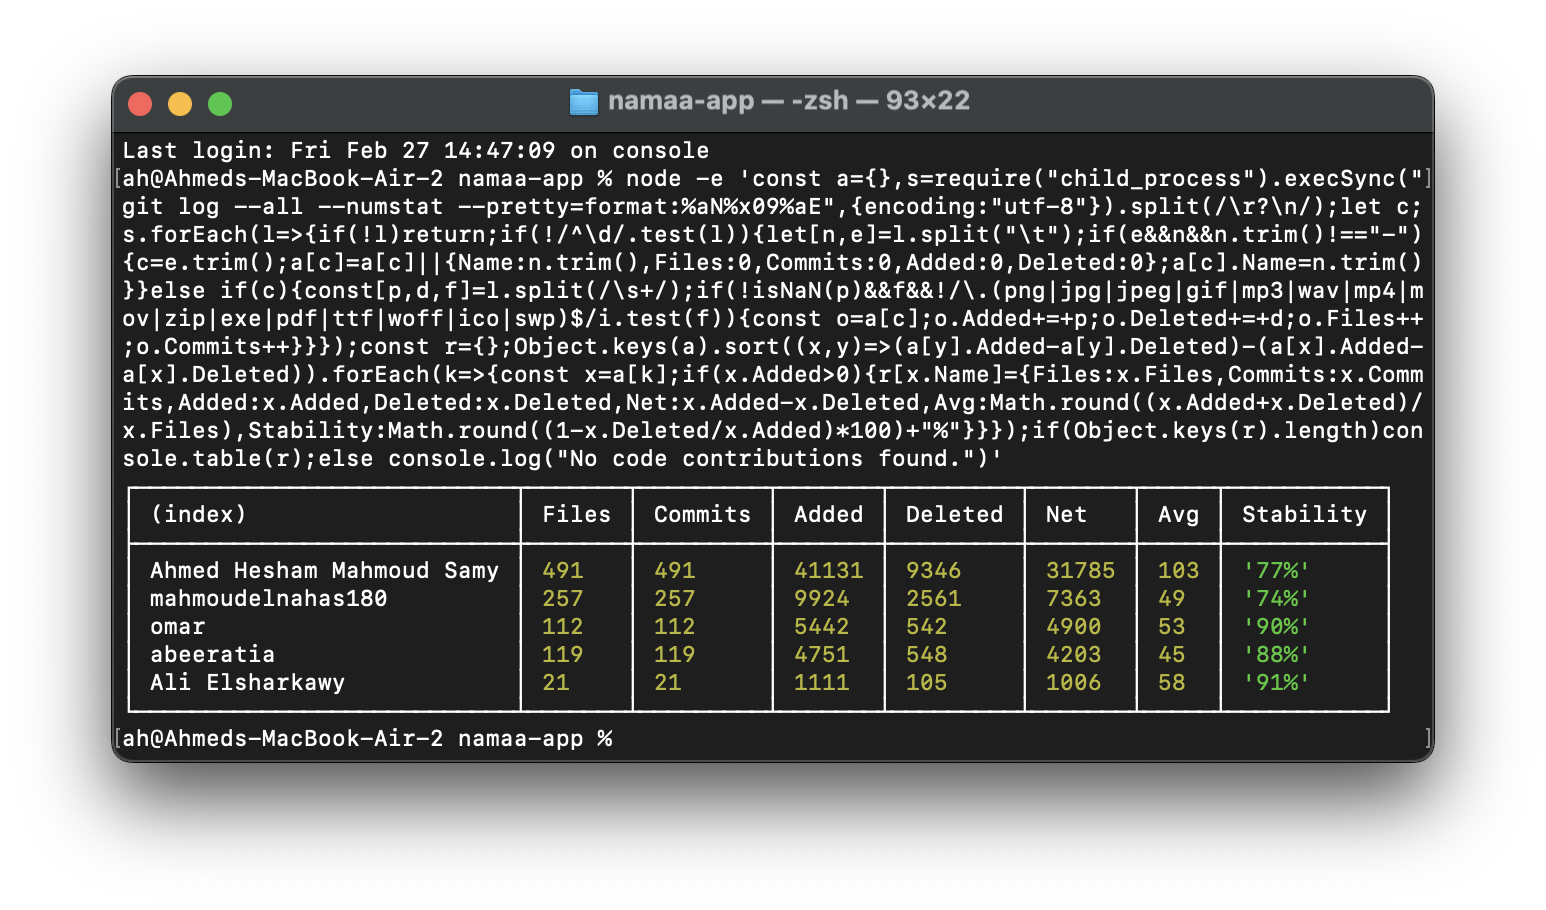
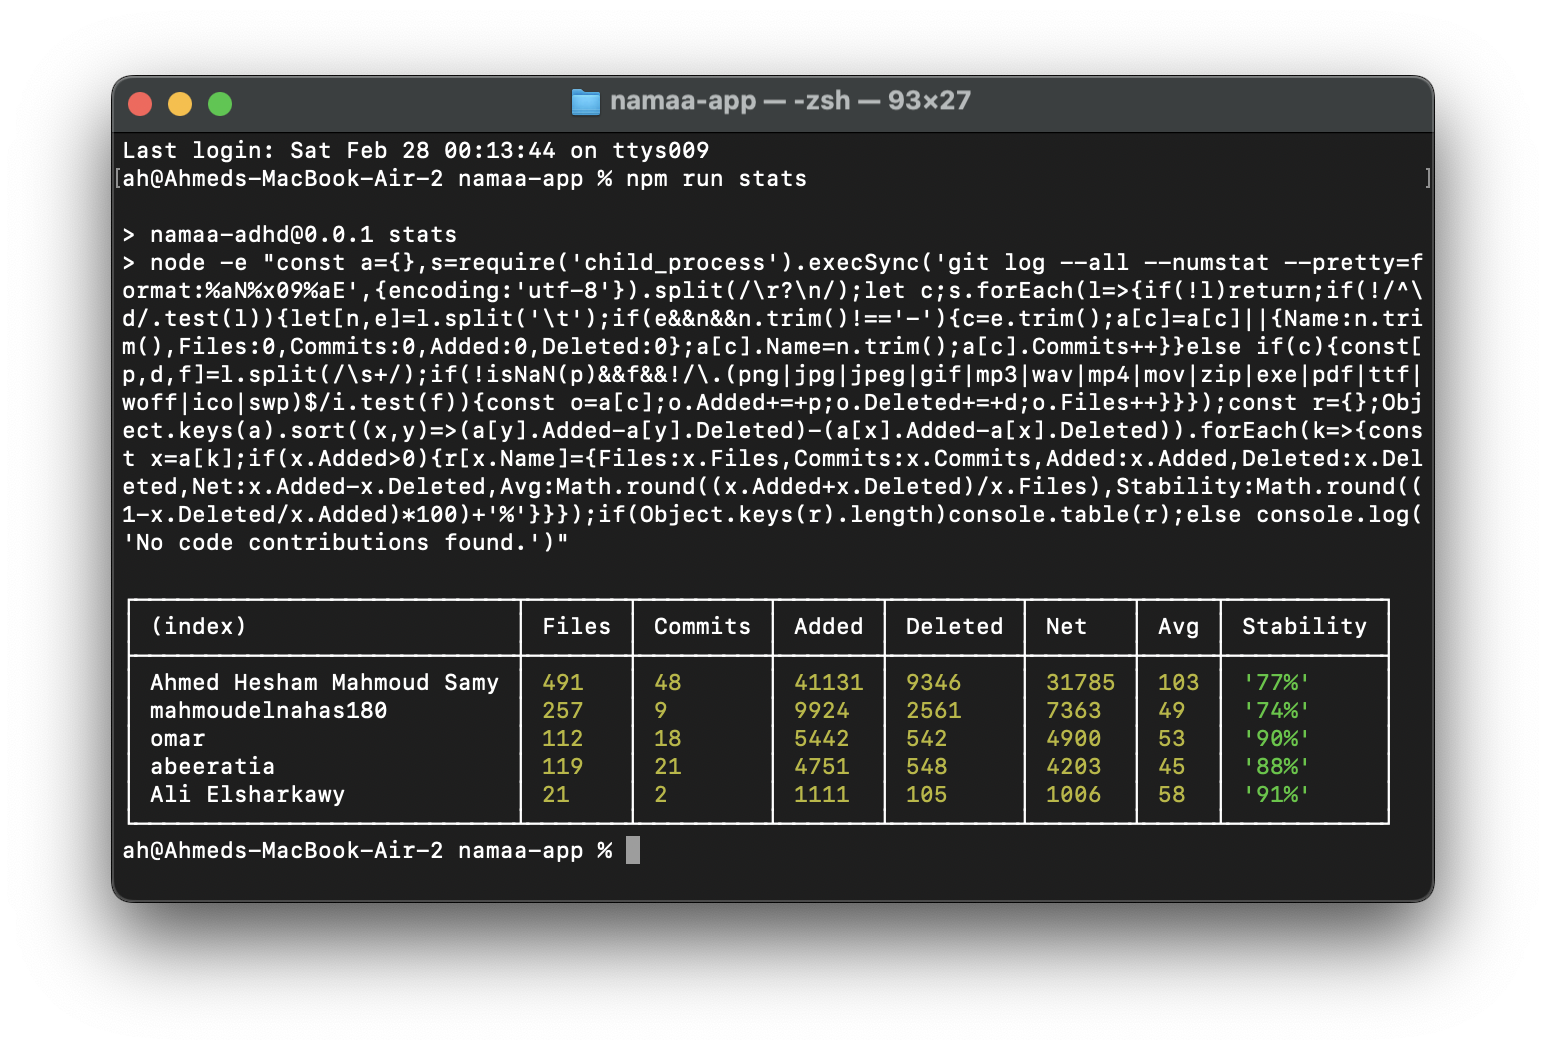
fix: Correctly count commits per author by incrementing once per commit instead of per file change.

Changed region(s): [[0.0621, 0.0615, 0.9314, 0.9231]]

diff --git a/git-stats.js b/git-stats.js
@@ -21,10 +21,10 @@ lines.forEach(line => {
     if (!/^\d/.test(line)) {
         // إذا كان السطر لا يبدأ برقم، إذن هو سطر [الاسم - التاب - الإيميل]
         let [name, email] = line.split('\t');
-        
+
         if (email && name && name.trim() !== '-') {
             currentAuthorEmail = email.trim();
-            
+
             // إنشاء كائن للمبرمج إذا لم يكن موجوداً (التجميع يتم بالإيميل)
             if (!stats[currentAuthorEmail]) {
                 stats[currentAuthorEmail] = {
@@ -37,22 +37,24 @@ lines.forEach(line => {
             }
             // تحديث الاسم لضمان استخدام أحدث اسم مستخدم لهذا الإيميل
             stats[currentAuthorEmail].Name = name.trim();
+
+            // ✅ يتم زيادة الكوميت هنا (مرة واحدة لكل عملية)
+            stats[currentAuthorEmail].Commits += 1;
         }
     } else if (currentAuthorEmail) {
         /**
          * السطر يبدأ برقم، إذن هو سطر إحصائيات ملف: [إضافة - حذف - مسار الملف]
          */
         const [added, deleted, filePath] = line.split(/\s+/);
-        
+
         // استبعاد الملفات غير البرمجية (صور، صوت، إلخ) باستخدام Regex
         const isBinary = /\.(png|jpg|jpeg|gif|mp3|wav|mp4|mov|zip|exe|pdf|ttf|woff|ico|swp)$/i.test(filePath);
-        
+
         if (!isNaN(added) && filePath && !isBinary) {
             const author = stats[currentAuthorEmail];
             author.Added += parseInt(added);
             author.Deleted += parseInt(deleted);
             author.Files += 1; // زيادة عدد الملفات الفريدة
-            author.Commits += 1; // زيادة عدد المساهمات
         }
     }
 });

diff --git a/README.md b/README.md
@@ -39,7 +39,7 @@ node git-stats.js
 Run this in **any** other Git repository on your machine to generate an immediate report without copying any files:
 
 ```bash
-node -e 'const a={},s=require("child_process").execSync("git log --all --numstat --pretty=format:%aN%x09%aE",{encoding:"utf-8"}).split(/\r?\n/);let c;s.forEach(l=>{if(!l)return;if(!/^\d/.test(l)){let[n,e]=l.split("\t");if(e&&n&&n.trim()!=="-"){c=e.trim();a[c]=a[c]||{Name:n.trim(),Files:0,Commits:0,Added:0,Deleted:0};a[c].Name=n.trim()}}else if(c){const[p,d,f]=l.split(/\s+/);if(!isNaN(p)&&f&&!/\.(png|jpg|jpeg|gif|mp3|wav|mp4|mov|zip|exe|pdf|ttf|woff|ico|swp)$/i.test(f)){const o=a[c];o.Added+=+p;o.Deleted+=+d;o.Files++;o.Commits++}}});const r={};Object.keys(a).sort((x,y)=>(a[y].Added-a[y].Deleted)-(a[x].Added-a[x].Deleted)).forEach(k=>{const x=a[k];if(x.Added>0){r[x.Name]={Files:x.Files,Commits:x.Commits,Added:x.Added,Deleted:x.Deleted,Net:x.Added-x.Deleted,Avg:Math.round((x.Added+x.Deleted)/x.Files),Stability:Math.round((1-x.Deleted/x.Added)*100)+"%"}}});if(Object.keys(r).length)console.table(r);else console.log("No code contributions found.")'
+node -e 'const a={},s=require("child_process").execSync("git log --all --numstat --pretty=format:%aN%x09%aE",{encoding:"utf-8"}).split(/\r?\n/);let c;s.forEach(l=>{if(!l)return;if(!/^\d/.test(l)){let[n,e]=l.split("\t");if(e&&n&&n.trim()!=="-"){c=e.trim();a[c]=a[c]||{Name:n.trim(),Files:0,Commits:0,Added:0,Deleted:0};a[c].Name=n.trim();a[c].Commits++}}else if(c){const[p,d,f]=l.split(/\s+/);if(!isNaN(p)&&f&&!/\.(png|jpg|jpeg|gif|mp3|wav|mp4|mov|zip|exe|pdf|ttf|woff|ico|swp)$/i.test(f)){const o=a[c];o.Added+=+p;o.Deleted+=+d;o.Files++}}});const r={};Object.keys(a).sort((x,y)=>(a[y].Added-a[y].Deleted)-(a[x].Added-a[x].Deleted)).forEach(k=>{const x=a[k];if(x.Added>0){r[x.Name]={Files:x.Files,Commits:x.Commits,Added:x.Added,Deleted:x.Deleted,Net:x.Added-x.Deleted,Avg:Math.round((x.Added+x.Deleted)/x.Files),Stability:Math.round((1-x.Deleted/x.Added)*100)+"%"}}});if(Object.keys(r).length)console.table(r);else console.log("No code contributions found.")'
 
 ```
 
@@ -49,7 +49,7 @@ Add this script to your `package.json` to make it accessible to everyone on your
 
 ```json
 "scripts": {
-  "stats": "node -e \"const a={},s=require('child_process').execSync('git log --all --numstat --pretty=format:%aN%x09%aE',{encoding:'utf-8'}).split(/\\r?\\n/);let c;s.forEach(l=>{if(!l)return;if(!/^\\d/.test(l)){let[n,e]=l.split('\\t');if(e&&n&&n.trim()!=='-'){c=e.trim();a[c]=a[c]||{Name:n.trim(),Files:0,Commits:0,Added:0,Deleted:0};a[c].Name=n.trim()}}else if(c){const[p,d,f]=l.split(/\\s+/);if(!isNaN(p)&&f&&!/\\.(png|jpg|jpeg|gif|mp3|wav|mp4|mov|zip|exe|pdf|ttf|woff|ico|swp)$/i.test(f)){const o=a[c];o.Added+=+p;o.Deleted+=+d;o.Files++;o.Commits++}}});const r={};Object.keys(a).sort((x,y)=>(a[y].Added-a[y].Deleted)-(a[x].Added-a[x].Deleted)).forEach(k=>{const x=a[k];if(x.Added>0){r[x.Name]={Files:x.Files,Commits:x.Commits,Added:x.Added,Deleted:x.Deleted,Net:x.Added-x.Deleted,Avg:Math.round((x.Added+x.Deleted)/x.Files),Stability:Math.round((1-x.Deleted/x.Added)*100)+'%'}}});if(Object.keys(r).length)console.table(r);else console.log('No code contributions found.')\""
+  "stats": "node -e \"const a={},s=require('child_process').execSync('git log --all --numstat --pretty=format:%aN%x09%aE',{encoding:'utf-8'}).split(/\\r?\\n/);let c;s.forEach(l=>{if(!l)return;if(!/^\\d/.test(l)){let[n,e]=l.split('\\t');if(e&&n&&n.trim()!=='-'){c=e.trim();a[c]=a[c]||{Name:n.trim(),Files:0,Commits:0,Added:0,Deleted:0};a[c].Name=n.trim();a[c].Commits++}}else if(c){const[p,d,f]=l.split(/\\s+/);if(!isNaN(p)&&f&&!/\\.(png|jpg|jpeg|gif|mp3|wav|mp4|mov|zip|exe|pdf|ttf|woff|ico|swp)$/i.test(f)){const o=a[c];o.Added+=+p;o.Deleted+=+d;o.Files++}}});const r={};Object.keys(a).sort((x,y)=>(a[y].Added-a[y].Deleted)-(a[x].Added-a[x].Deleted)).forEach(k=>{const x=a[k];if(x.Added>0){r[x.Name]={Files:x.Files,Commits:x.Commits,Added:x.Added,Deleted:x.Deleted,Net:x.Added-x.Deleted,Avg:Math.round((x.Added+x.Deleted)/x.Files),Stability:Math.round((1-x.Deleted/x.Added)*100)+'%'}}});if(Object.keys(r).length)console.table(r);else console.log('No code contributions found.')\""
 }
 
 ```
